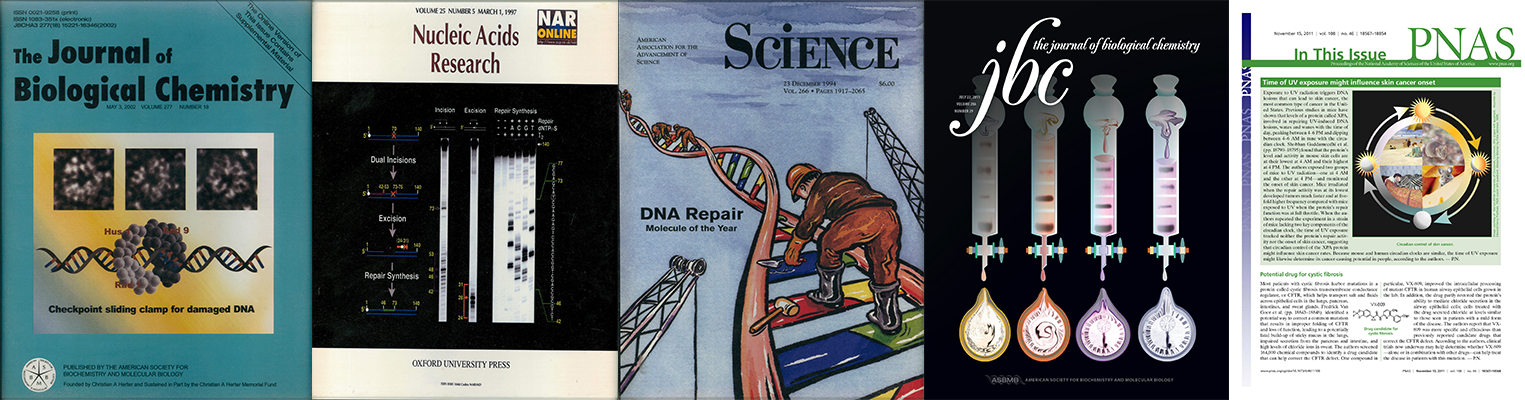
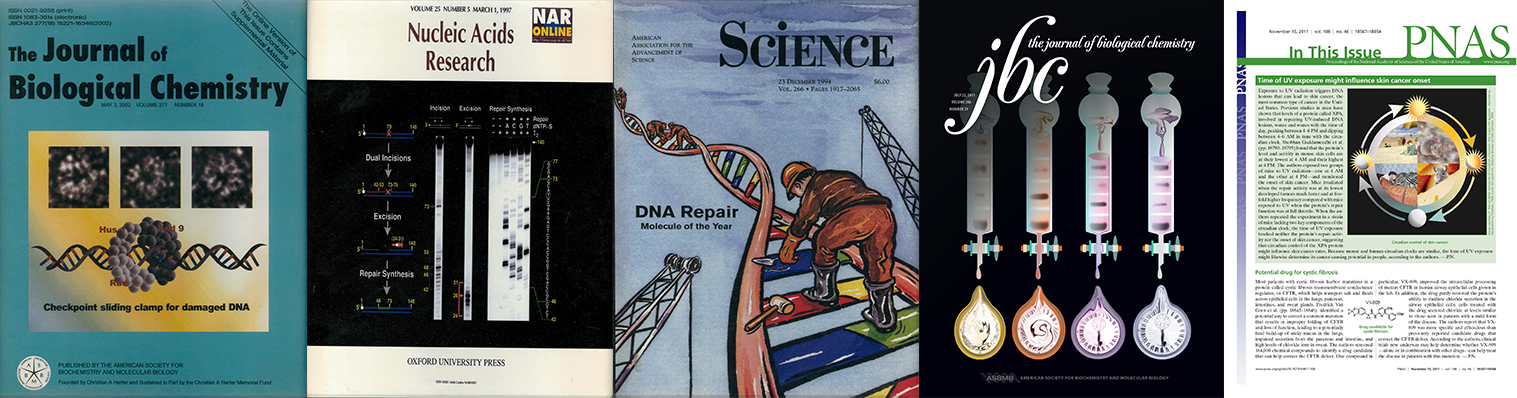
lower image quality

diff --git a/pages/research.vue b/pages/research.vue
@@ -105,7 +105,7 @@ h1 {
 } */
 
 .parallax {
-  background-image: url('/img/tubes.jpg');
+  background-image: url('/img/tubes_lq.jpg');
   text-align: center;
   /* background-position-y: -300px; */
 

diff --git a/pages/press.vue b/pages/press.vue
@@ -78,7 +78,7 @@ a {
 }
 
 .parallax {
-  background-image: url('/img/interview.jpg');
+  background-image: url('/img/interview_lq.jpg');
   text-align: center;
   background-position-y: -300px;
 

diff --git a/pages/publications.vue b/pages/publications.vue
@@ -42,7 +42,7 @@ export default {
   }
 
   .parallax {
-    background-image: url('/img/covers.png');
+    background-image: url('/img/covers.jpg');
   }
 
   .parallax h1 {
